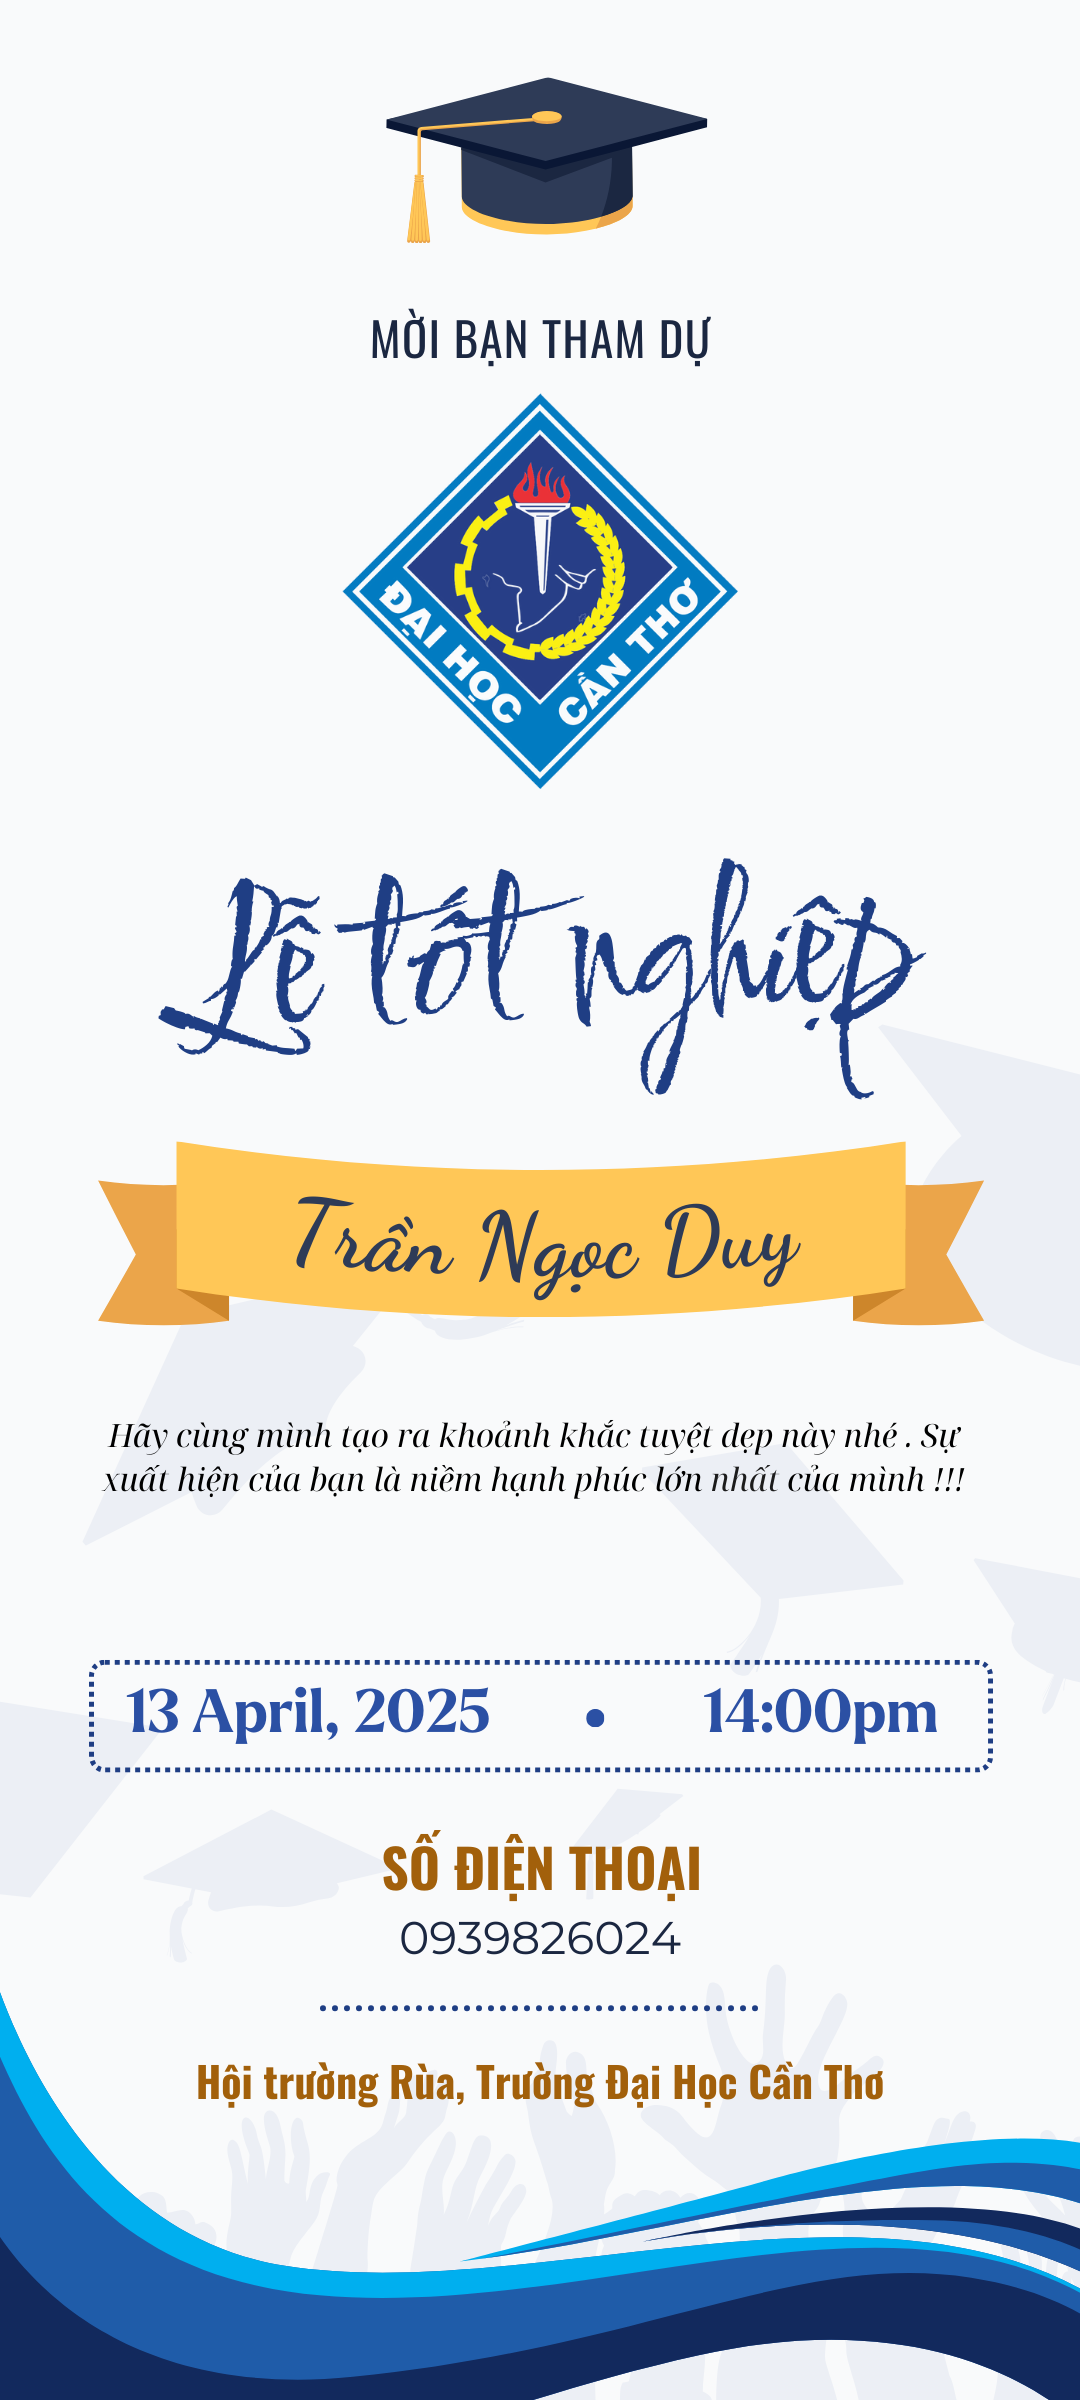
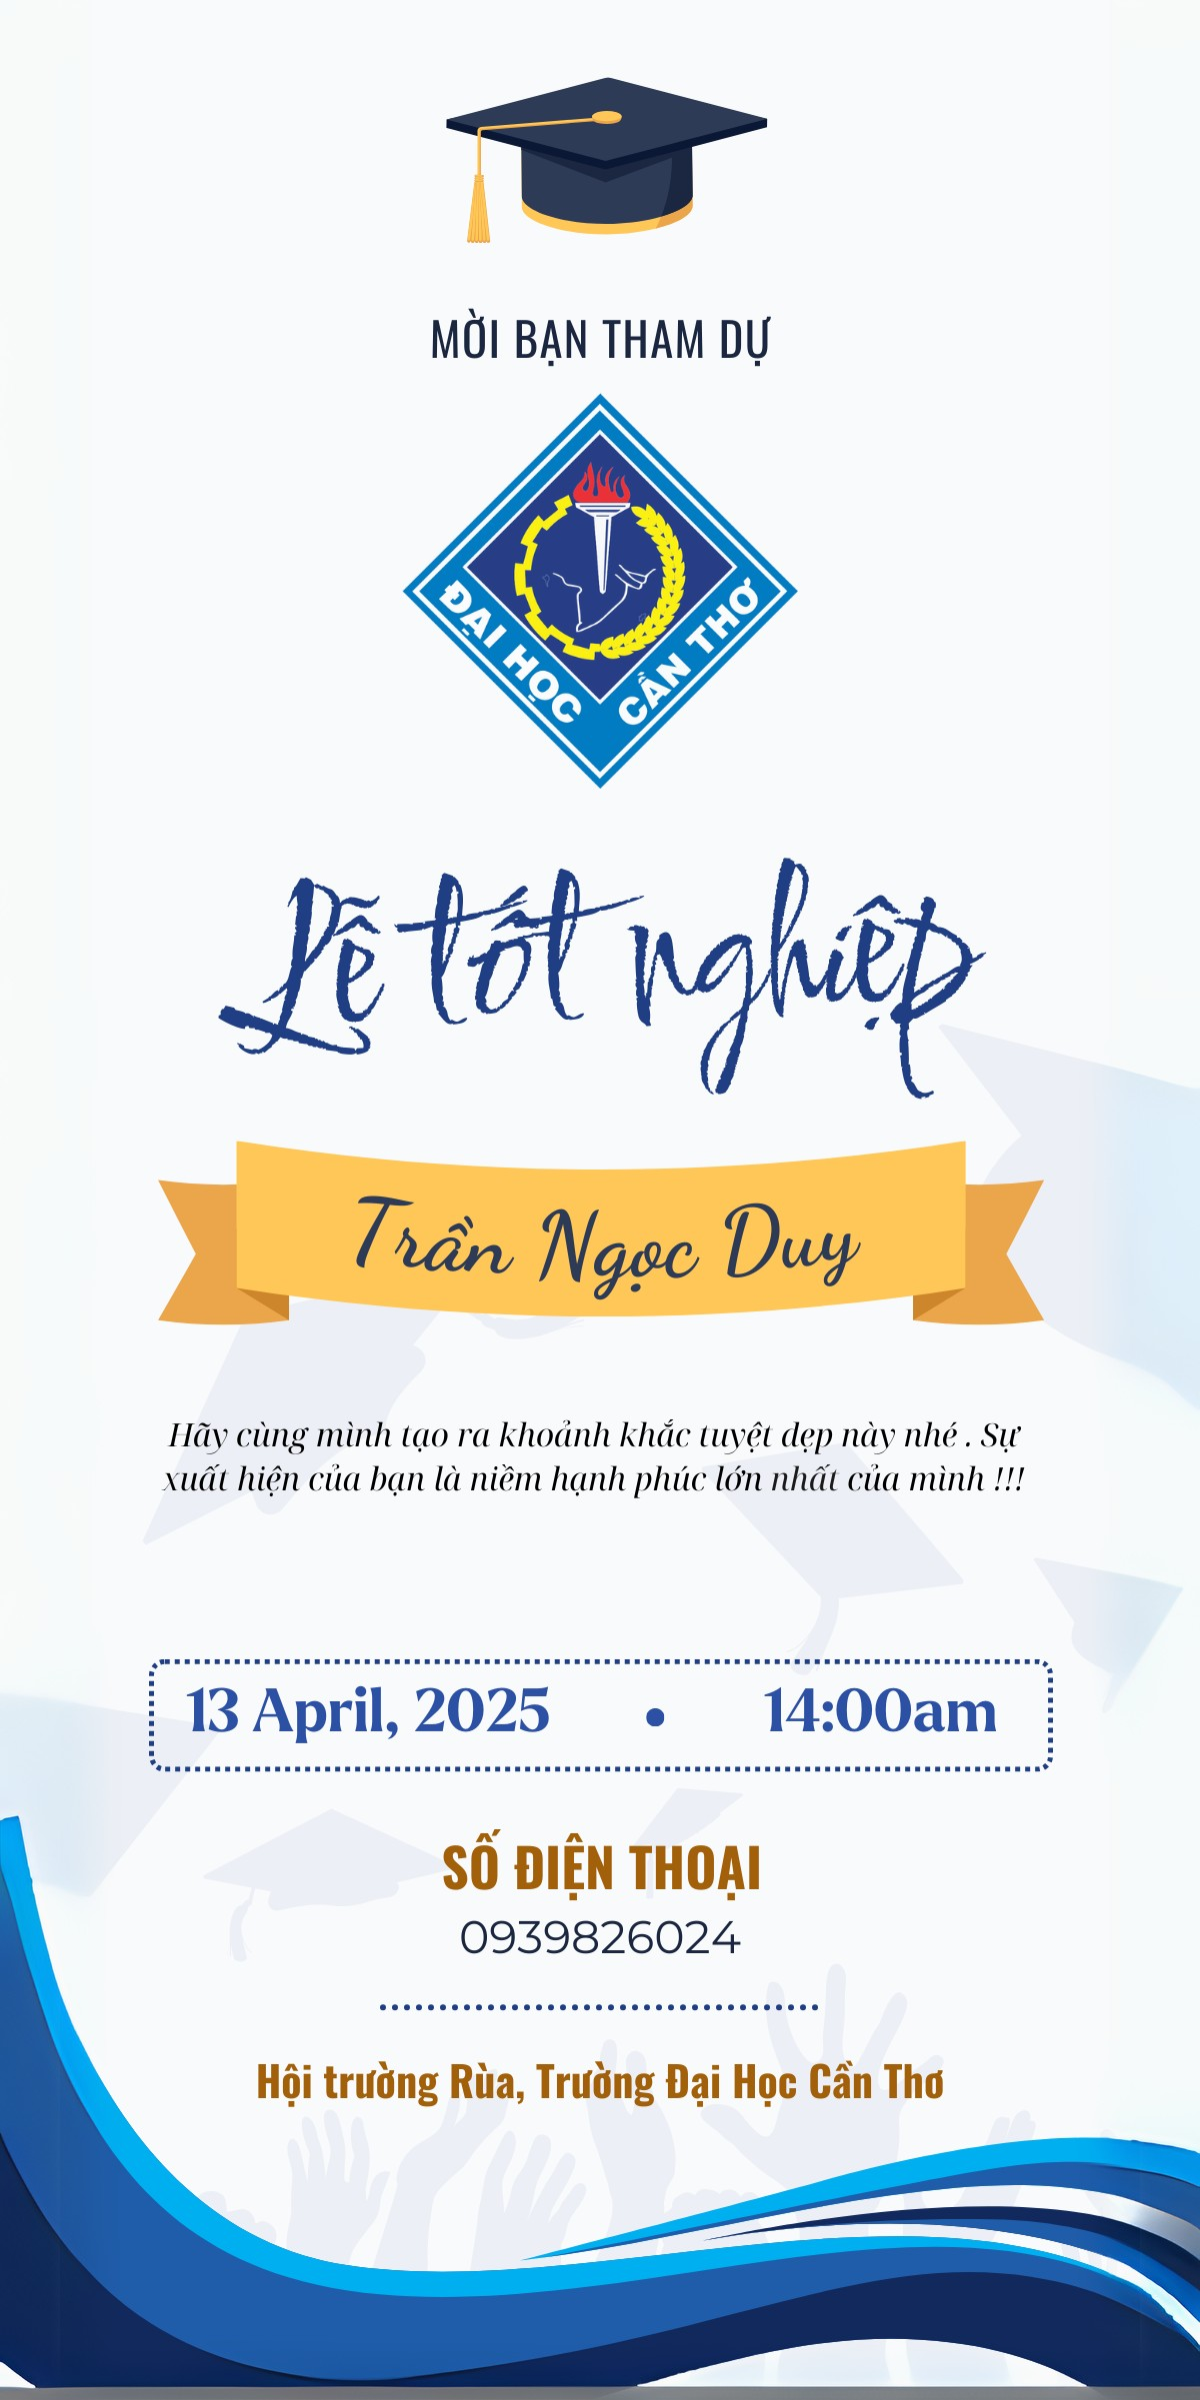
update

diff --git a/thiepmoichisa.html b/thiepmoichisa.html
@@ -240,6 +240,9 @@
                                 "Nhưng mà sự xuất hiện của Sa là niềm vui lớn nhất của em đó !!!",
                                 "Thời gian và địa điểm như ban đầu chị thấy á",
                                 "Chắc chị quên rồi đúng hong !!!",
+                                "Lễ tốt nghiệp của em sẽ diễn ra",
+                                "Vào lúc 14:00 ",
+                                "Ngày 13/04/2025 ",
                                 "Đây là thiệp mời em code riêng cho chị nè !!"
                             ];
 
@@ -255,7 +258,9 @@
 
                                     // Đợi 3 giây rồi hiển thị hình ngay
                                     setTimeout(() => {
-                                        document.querySelector('.invitation').classList.add('show-invitation');
+                                        let invitation = document.querySelector('.invitation');
+                                        invitation.style.backgroundImage = "url('nguyenhoangcamsa.png')";
+                                        invitation.classList.add('show-invitation');
 
                                         // Sau khi hiển thị hình, đóng cổng lại
                                         setTimeout(() => {
@@ -265,10 +270,10 @@
                                             document.querySelector('.top-left-text').style.display = "none";
                                             document.querySelector('.top-right-text').style.display = "none";
                                             document.querySelector('.button-image').style.display = "none";
-
                                         }, 10000); // Thời gian đóng cổng
 
                                     }, 1000); // Thời gian hiển thị hình trước khi đóng cổng
+
                                 }
                             }
 
